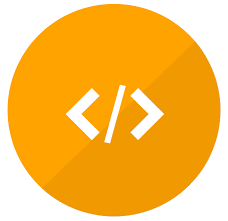
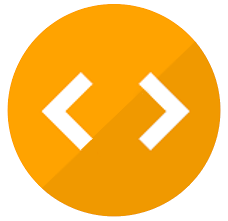
adding social labels, updating css

Changed region(s): [[0.4605, 0.3258, 0.8289, 0.6787], [0.1842, 0.3258, 0.4298, 0.6787]]

diff --git a/openlibrary/macros/SocialShare.html b/openlibrary/macros/SocialShare.html
@@ -11,12 +11,14 @@ $if share_links:
         $ track_tag = share_link['text'].replace(' ', '-')
         <li>
           <a href="$share_link['url']" class="sansserif large" target="_blank" data-ol-link-track="Share|$track_tag"><img title="Share on $(share_link['text'])" alt="$(share_link['text'])" class="share-link" src="/static/images/$(share_link['text'].lower()).svg"/></a>
+          <div class="share-source">$share_link['text']</div>
         </li>
     $if work and work.get('key'):
         <li>
             <a title="Embed this book in your website" class="embed-work-btn" onclick="prompt('Copy embed code to clipboard:', '&lt;iframe width=&quot;200&quot; frameBorder=&quot;0&quot; height=&quot;425&quot; src=&quot;' + location.protocol + '//' + location.hostname + (location.port ? ':' + location.port: '') + '$(work.key)/-/widget&quot;&gt;&lt;/iframe&gt;' );">
               <img alt="Embed this book" class="share-link" src="/static/images/embed.png">
             </a>
+            <div class="share-source">Embed</div>
         </li>
     </ul>
   </div>

diff --git a/static/css/master.css b/static/css/master.css
@@ -1900,6 +1900,13 @@ a.linkButton {
     margin-top:10px;
 }
 
+.shareLinks .share-source {
+    font-size: .8em;
+    text-align: center;
+    color: #888;
+    
+}
+
 #content .shareLinks ul {list-style-type:none;margin:0;padding:0;overflow:hidden;}
 #content .shareLinks li {list-style-type:none;display: inline;line-height: 24px;}
 #content .shareLinks a {line-height: 24px;}
@@ -1971,7 +1978,7 @@ div.Tools li {
 
 div.Tools ul.ebook-download-options li {
     padding-left: 0px;
-    margin: 10px 10px 0px 10px;
+    margin: 5px 10px 0px 10px;
 }
 
 #content div.Tools ul.shareLinks-list {
